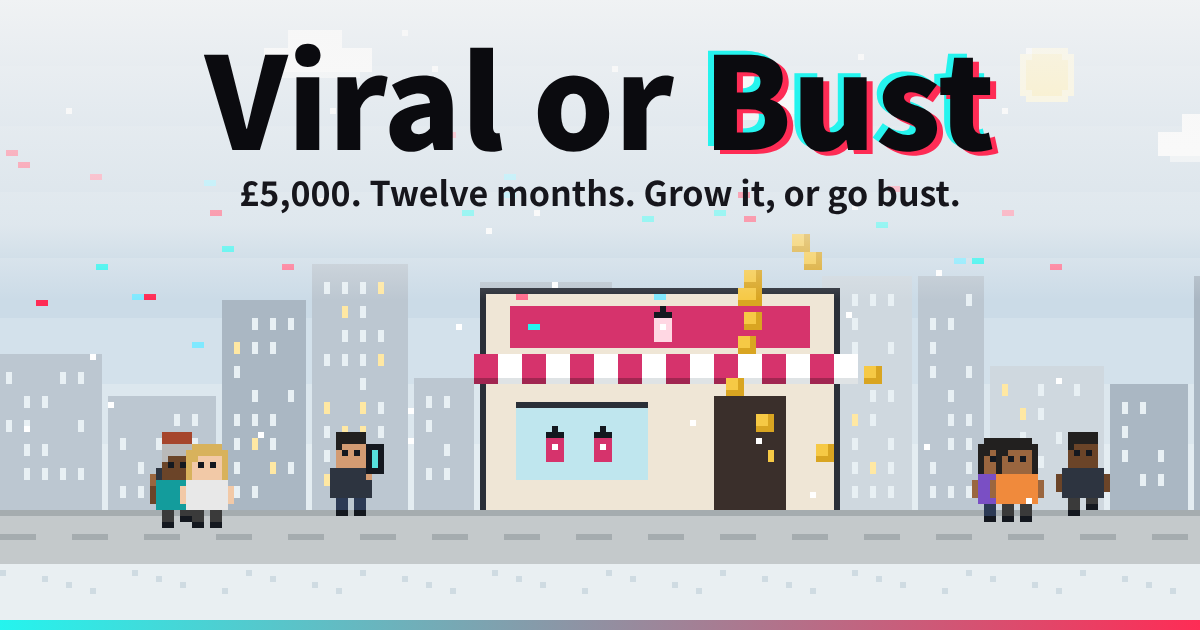
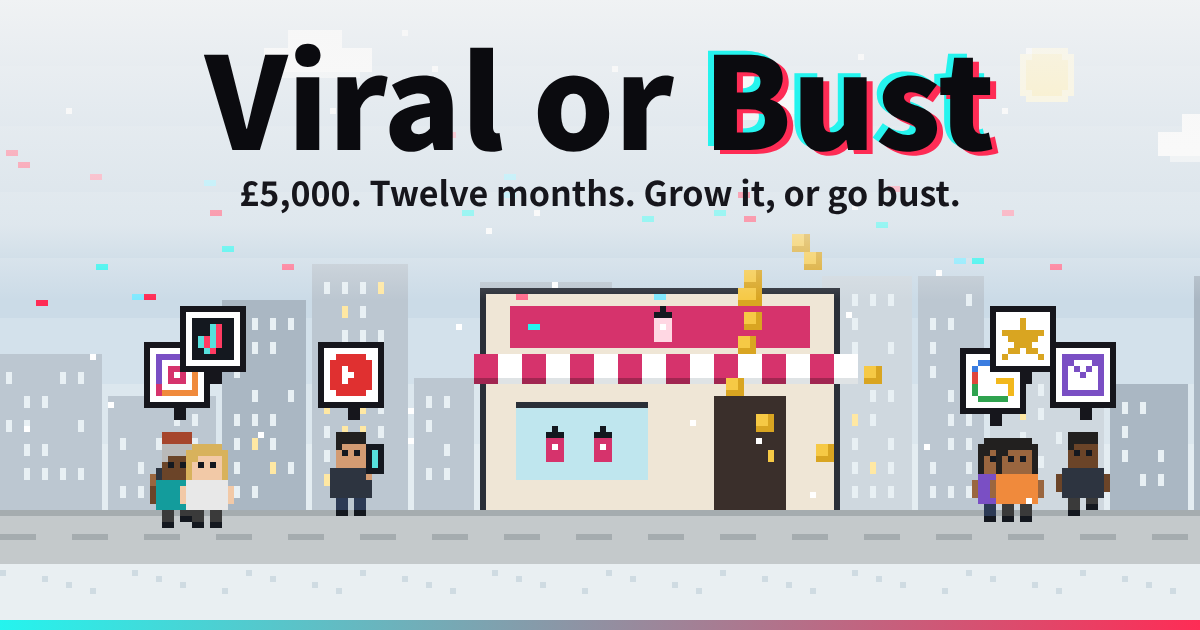
Add files via upload

Changed region(s): [[0.8017, 0.4825, 0.9558, 0.6937], [0.0925, 0.4825, 0.2158, 0.6635], [0.2467, 0.5429, 0.3392, 0.6635]]

diff --git a/index.html b/index.html
@@ -17,7 +17,7 @@
 <meta property="og:description" content="£5,000. Twelve months. Grow it, or go bust. Challenge your friends.">
 <meta property="og:type" content="website">
 <!-- SNS preview image: change this address if your site address is different -->
-<meta property="og:image" content="https://viralorbust.github.io/og-image.png">
+<meta property="og:image" content="https://viralorbust.github.io/og-image.png?v=5">
 <meta property="og:image:width" content="1200">
 <meta property="og:image:height" content="630">
 <link rel="canonical" href="https://viralorbust.github.io/">
@@ -26,7 +26,7 @@
 <meta property="og:site_name" content="Viral or Bust">
 <meta name="twitter:title" content="Viral or Bust">
 <meta name="twitter:description" content="£5,000. Twelve months. Grow it, or go bust. A free marketing budget simulation game.">
-<meta name="twitter:image" content="https://viralorbust.github.io/og-image.png">
+<meta name="twitter:image" content="https://viralorbust.github.io/og-image.png?v=5">
 <script type="application/ld+json">{"@context":"https://schema.org","@type":"VideoGame","name":"Viral or Bust","url":"https://viralorbust.github.io/","description":"A free browser game that simulates a 12-month digital marketing budget: split £5,000 across Instagram, TikTok, search ads and SEO, target audiences, and grow or go bust.","genre":["Simulation","Business"],"gamePlatform":"Web browser","applicationCategory":"Game","inLanguage":["en","ko"],"isAccessibleForFree":true,"offers":{"@type":"Offer","price":"0","priceCurrency":"GBP"}}</script>
 <meta name="twitter:card" content="summary_large_image">
 <meta name="theme-color" content="#050507">
